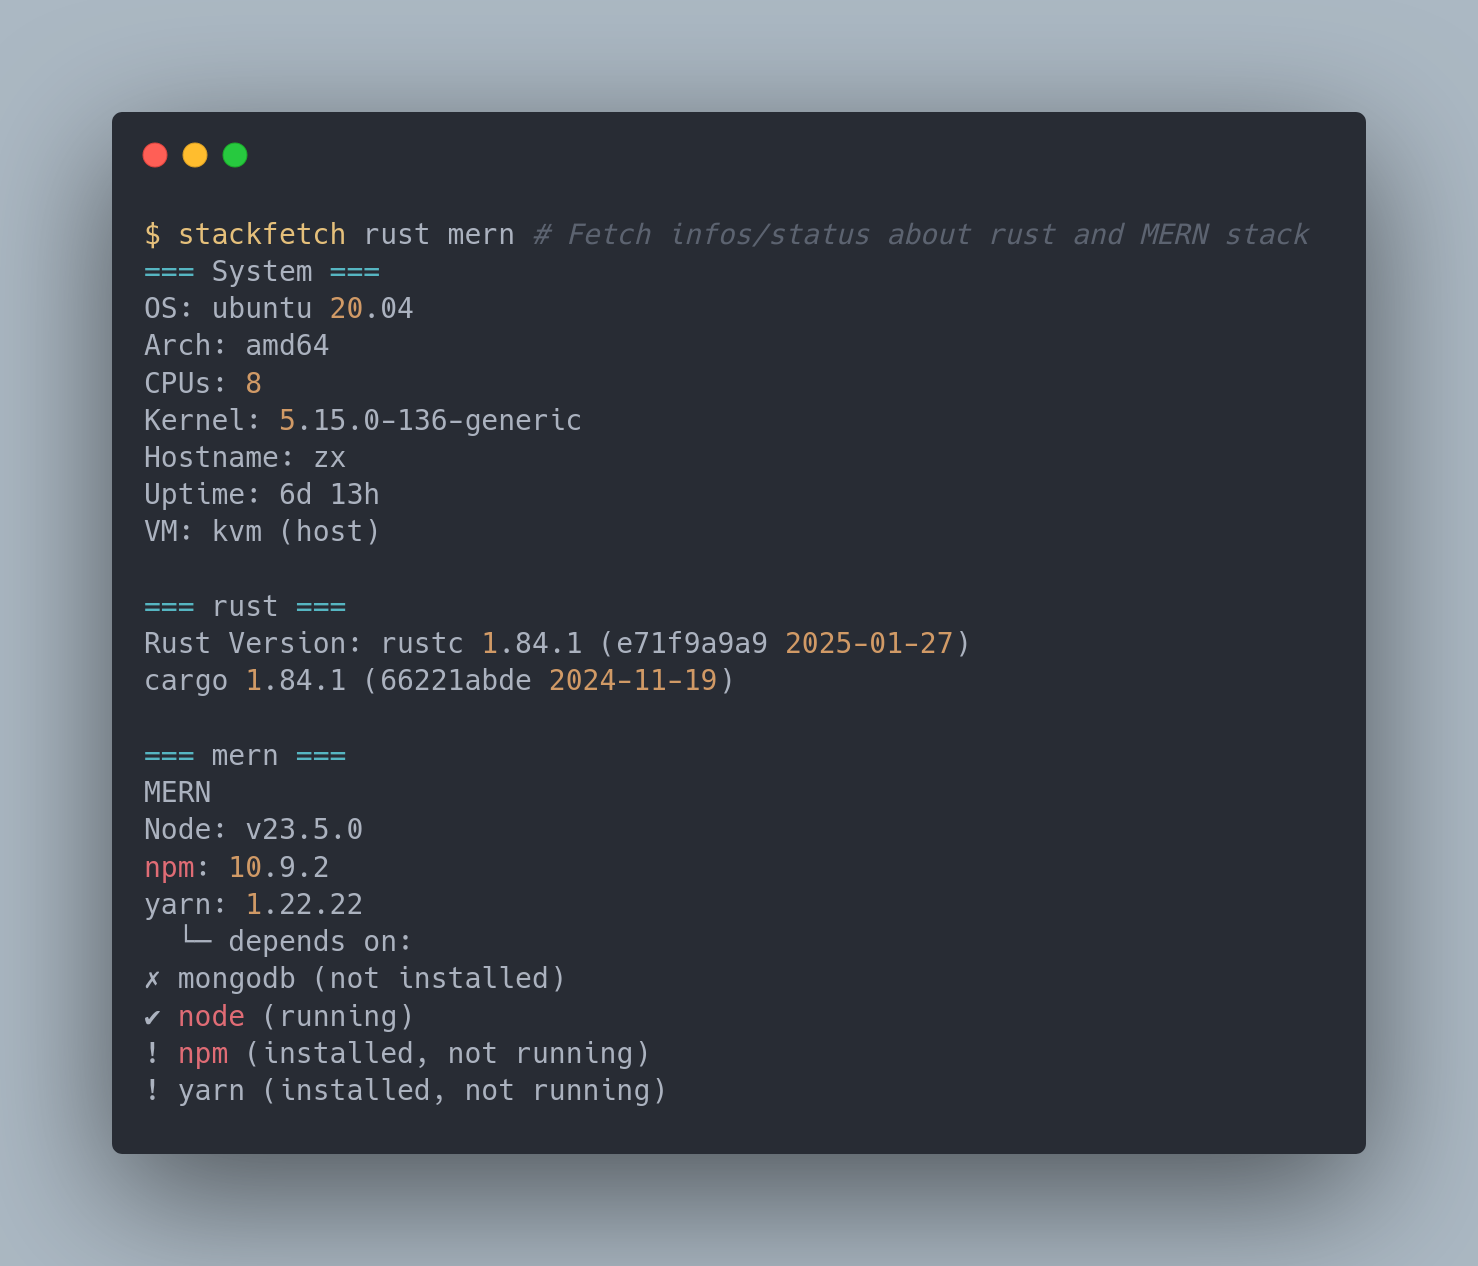
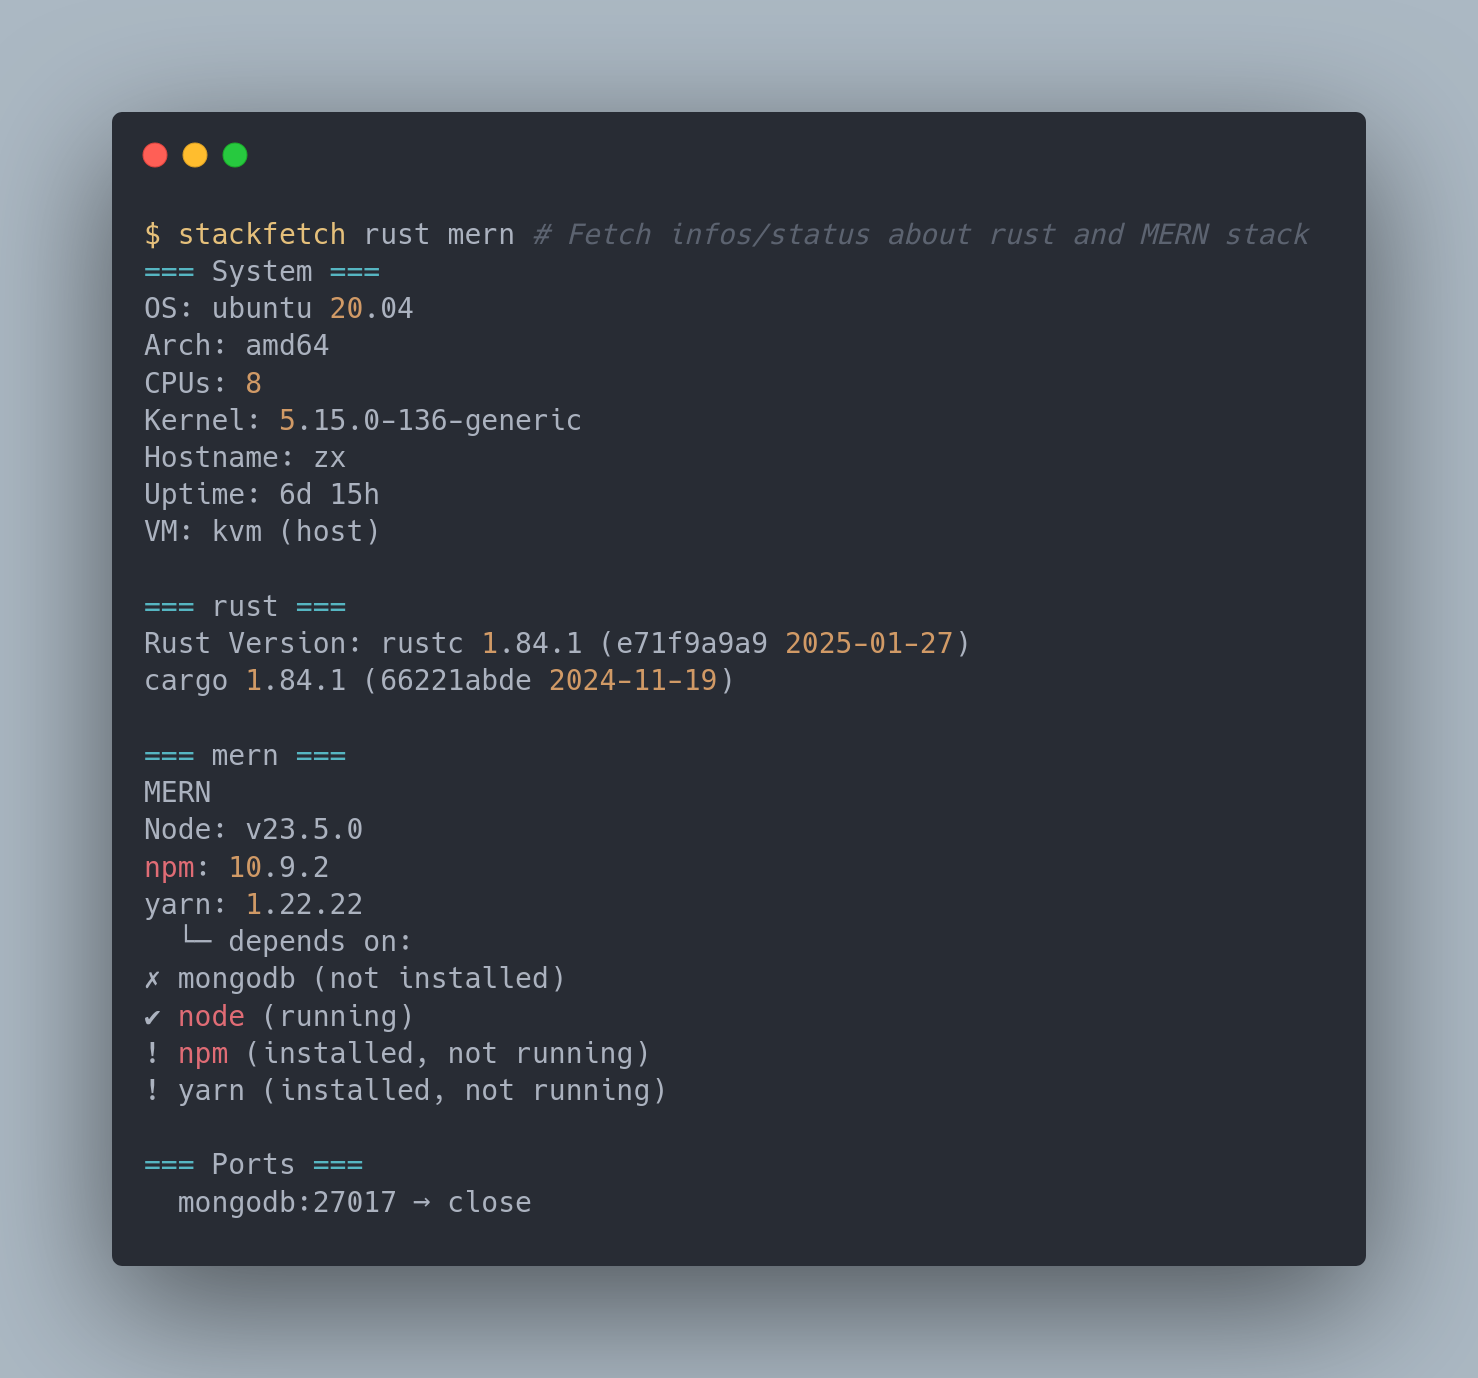
feat: handle opened/close port related to dependencies services (#5)
* feat: handle opened/close port related to dependencies services

* chore: lint

Changed region(s): [[0.0622, 0.0616, 0.9337, 0.9242], [0.6847, 0.154, 0.8714, 0.1848], [0.4668, 0.154, 0.6536, 0.1848]]

diff --git a/internal/services/ports.go b/internal/services/ports.go
@@ -1,0 +1,64 @@
+package services
+
+import (
+    "fmt"
+    "net"
+    "time"
+)
+
+// DefaultPorts maps service names (or stack dependency keys) to their common TCP ports.
+var DefaultPorts = map[string][]int{
+    "apache":      {80, 443},
+    "nginx":       {80, 443, 8080},
+    "mysql":       {3306},
+    "postgresql":  {5432},
+    "mongodb":     {27017},
+    "redis":       {6379},
+    "docker":      {2375, 2376},
+    "ssh":         {22},
+    "phpfpm":      {9000},
+    "memcached":   {11211},
+    "elasticsearch": {9200, 9300},
+    "logstash":    {5044, 9600},
+    "kibana":      {5601},
+    "fluentd":     {24224},
+    "telegraf":    {8186},
+    "influxdb":    {8086},
+    "chronograf":  {8888},
+    "kapacitor":   {9092},
+    // TODO: will add more later
+}
+
+// PortStatus represents the open/closed state of a single port for a service.
+type PortStatus struct {
+    Service string
+    Port    int
+    Open    bool
+}
+
+// CheckPorts probes each port for the given services on localhost.
+// It returns a slice of PortStatus entries for every configured port.
+// The timeout controls the DialTimeout duration per port.
+func CheckPorts(svcs []string, timeout time.Duration) []PortStatus {
+    var out []PortStatus
+    for _, svc := range svcs {
+        ports, ok := DefaultPorts[svc]
+        if !ok {
+            continue
+        }
+        for _, p := range ports {
+            addr := fmt.Sprintf("127.0.0.1:%d", p)
+            conn, err := net.DialTimeout("tcp", addr, timeout)
+            open := err == nil
+            if conn != nil {
+                conn.Close()
+            }
+            out = append(out, PortStatus{
+                Service: svc,
+                Port:    p,
+                Open:    open,
+            })
+        }
+    }
+    return out
+}

diff --git a/cmd/stackfetch/main.go b/cmd/stackfetch/main.go
@@ -7,6 +7,7 @@ import (
 	"os"
 	"path/filepath"
 	"runtime"
+	"time"
 
 	"github.com/fatih/color"
 	"github.com/sanix-darker/stackfetch/internal/guess"
@@ -17,10 +18,11 @@ import (
 )
 
 type result struct {
-	System   sysinfo.Info       `json:"system"`
-	Reports  []langfetch.Result `json:"reports"`
-	Services []services.Status  `json:"services,omitempty"`
-	Guessed  []string           `json:"guessed,omitempty"`
+    System   sysinfo.Info           `json:"system"`
+    Reports  []langfetch.Result     `json:"reports"`
+    Services []services.Status      `json:"services,omitempty"`
+    Guessed  []string               `json:"guessed,omitempty"`
+    Ports    []services.PortStatus  `json:"ports,omitempty"`
 }
 
 var version = "dev"
@@ -111,6 +113,20 @@ func runStackfetch(jsonOut bool, guessed, args []string) error {
                 printServiceLine(d, st)
             }
         }
+    }
+
+    // check port status for those same services
+    //    500ms is a reasonable per-port timeout
+    res.Ports = services.CheckPorts(deps, 500*time.Millisecond)
+
+    // then in your plain-text output:
+    fmt.Println("\n=== Ports ===")
+    for _, ps := range res.Ports {
+        status := "closed"
+        if ps.Open {
+            status = "open"
+        }
+        fmt.Printf("  %s:%d → %s\n", ps.Service, ps.Port, status)
     }
 
     return nil

diff --git a/internal/services/ports_test.go b/internal/services/ports_test.go
@@ -1,0 +1,35 @@
+package services
+
+import (
+    "net"
+    "strconv"
+    "testing"
+    "time"
+)
+
+func TestCheckPorts(t *testing.T) {
+    // Listen on an ephemeral port
+    ln, err := net.Listen("tcp", "127.0.0.1:0")
+    if err != nil {
+        t.Fatalf("failed to listen: %v", err)
+    }
+    defer ln.Close()
+
+    _, portStr, _ := net.SplitHostPort(ln.Addr().String())
+    port, _ := strconv.Atoi(portStr)
+
+    svcName := "testsvc"
+    DefaultPorts[svcName] = []int{port}
+
+    statuses := CheckPorts([]string{svcName}, 500*time.Millisecond)
+    if len(statuses) != 1 {
+        t.Fatalf("expected 1 PortStatus, got %d", len(statuses))
+    }
+    ps := statuses[0]
+    if ps.Service != svcName || ps.Port != port {
+        t.Errorf("unexpected status entry: %+v", ps)
+    }
+    if !ps.Open {
+        t.Errorf("expected port %d to be open", port)
+    }
+}

diff --git a/README.md b/README.md
@@ -4,12 +4,13 @@
 
 ![screenshot](./screenshot.png)
 
-Ever got an issue from someone you can't reproduce on your side ?
-But then asking to run a bunch of command line to get like, the version of his cli/package-manager/system environment, processor... ?
+Ever got an issue from someone on a project and you can't reproduce on your side ?
+But then asking to run a bunch of command line to get like, the version of his cli/package-manager/system environment, what is the processor... ?
 
-Yes, me too.
+As a maintainer, yes, me too...
 
-Meet stackfetch, with a provided programming language or just a stack, you are going to have all informations you want to help debuguing.
+Meet `stackfetch`, with a provided programming language or just a stack, you are going to have all informations you want to help debuguing.
+even regarding services or ports opened / closed.
 
 ## FEATURES
 
@@ -20,6 +21,7 @@ Meet stackfetch, with a provided programming language or just a stack, you are g
 - **Guess Mode**: `Automatically guess the stack of the current directory project.`
     `stackfetch guess # or just : stackfetch ?`
 - **Services status:** Checks for running services from which the stack depends on.
+- **Services port:** Checks for opened port regarding services from which the stack depends on.
 
 ## HOW TO INSTALL
 
